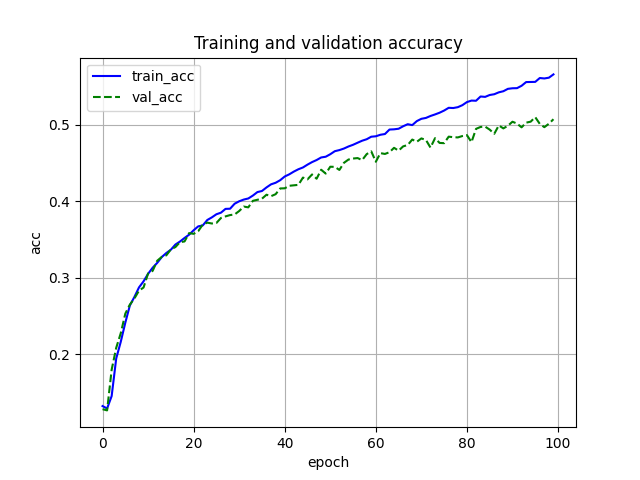
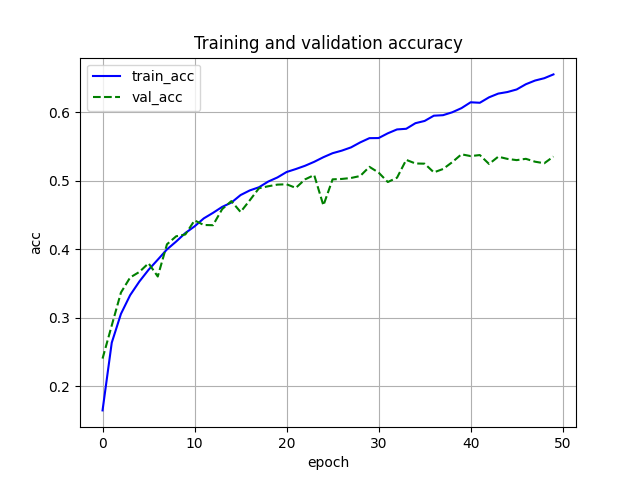
final result for my_mlp/cnn

diff --git a/mnist/mlp/mlp_mnist.py b/mnist/mlp/mlp_mnist.py
@@ -5,6 +5,7 @@ from torch import nn
 from torch.functional import F
 from torch import optim
 import matplotlib.pyplot as plt
+import time
 
 train_Data = dsets.MNIST(
     root='../data_mnist',
@@ -49,8 +50,13 @@ class MLP(nn.Module):
     '''
     def __init__(self, D_in, H, D_out):
         super(MLP, self).__init__()
-        self.fc1 = nn.Linear(D_in, H)
-        self.fc2 = nn.Linear(H, D_out)
+        self.l1 = nn.Linear(D_in, H)
+        self.l2 = nn.Linear(H,D_out)
+
+    def forward(self, x):
+        h = F.relu(self.l1(x))
+        y = self.l2(x)
+        return y
     '''
 
     def __init__(self):
@@ -59,6 +65,7 @@ class MLP(nn.Module):
         self.fc2 = nn.Linear(512, 10)
 
     def forward(self, x):
+        x = x.view(-1, 28*28*1)
         x = F.relu(self.fc1(x))
         return self.fc2(x)
 
@@ -67,23 +74,25 @@ net = MLP().to(device)
 
 #loss:CrossEntropy
 criterion = nn.CrossEntropyLoss()
-#optimizer:SGD, learning rate:0.01
-optimizer = optim.SGD(net.parameters(), lr=0.01)
+#optimizer:SGD, learning rate:0.04
+optimizer = optim.SGD(net.parameters(), lr=0.04)
 
 #training
 
-#50epochs
-num_epochs = 50
+#100epochs
+num_epochs = 100
 
 train_loss_list, train_acc_list, val_loss_list, val_acc_list = [], [], [], []
+elapsed_time = 0
 
 for epoch in range(num_epochs):
+    start = time.time()
     train_loss, train_acc, val_loss, val_acc = 0, 0, 0, 0
 
     #train
     net.train()
     for inputs, labels in train_loader:
-        inputs, labels = inputs.view(-1, 28*28*1).to(device), labels.to(device)
+        inputs, labels = inputs.to(device), labels.to(device)
         optimizer.zero_grad()  #initialize
         outputs = net(inputs)  #output
         loss = criterion(outputs, labels)  #loss
@@ -99,7 +108,7 @@ for epoch in range(num_epochs):
     net.eval()
     with torch.no_grad():  #stop calculation of grad
         for inputs, labels in valid_loader:
-            inputs, labels = inputs.view(-1, 28*28*1).to(device), labels.to(device)
+            inputs, labels = inputs.to(device), labels.to(device)
             outputs = net(inputs)  #output
             loss = criterion(outputs, labels)  #loss
             val_loss += loss.item()
@@ -108,6 +117,7 @@ for epoch in range(num_epochs):
     avg_val_loss = val_loss / len(valid_loader.dataset)
     avg_val_acc = val_acc / len(valid_loader.dataset)
 
+    elapsed_time += time.time() - start
     print ('Epoch [{}/{}], Loss: {loss:.4f}, val_loss: {val_loss:.4f}, val_acc: {val_acc:.4f}'
                    .format(epoch+1, num_epochs, loss=avg_train_loss, val_loss=avg_val_loss, val_acc=avg_val_acc))
 
@@ -117,13 +127,16 @@ for epoch in range(num_epochs):
     val_loss_list.append(avg_val_loss)
     val_acc_list.append(avg_val_acc)
 
+timeperepoch = elapsed_time / num_epochs
+print('elapsed time per epoch: {:.2f}'.format(timeperepoch))
+
 test_acc = 0
 
 #test
 net.eval()
 with torch.no_grad():
     for inputs, labels in test_loader:
-        inputs, labels = inputs.view(-1, 28*28*1).to(device), labels.to(device)
+        inputs, labels = inputs.to(device), labels.to(device)
         outputs = net(inputs)
         acc = (outputs.max(1)[1] == labels).sum()
         test_acc += acc.item()

diff --git a/cifar10/cnn/cnn_cifar10.py b/cifar10/cnn/cnn_cifar10.py
@@ -5,19 +5,20 @@ from torch import nn
 from torch.functional import F
 from torch import optim
 import matplotlib.pyplot as plt
+import time
 
 train_Data = dsets.CIFAR10(
     root='../data_cifar10',
     train=True,
     transform=transforms.ToTensor(),
-    download=True
+    download=False
 )
 
 test_data = dsets.CIFAR10(
     root='../data_cifar10',
     train=False,
     transform=transforms.ToTensor(),
-    download=True
+    download=False
 )
 
 train_data, valid_data = torch.utils.data.random_split(train_Data, [40000, 10000])
@@ -50,10 +51,11 @@ class CNN(nn.Module):
 
     def __init__(self):
         super(CNN, self).__init__()
-        self.conv1 = nn.Conv2d(3, 64, 3)   #64 filters 3*3
+        self.conv1 = nn.Conv2d(3, 64, 3)   #64 filters 5*5
         self.conv2 = nn.Conv2d(64, 64, 3)
         self.pool = nn.MaxPool2d(2)        #2*2
-        self.conv3 = nn.Conv2d(64, 128, 3) #128 filters 3*3
+        self.conv3 = nn.Conv2d(64, 128, 3)
+        #self.conv4 = nn.Conv2d(64, 64, 3)
         self.fc1 = nn.Linear(6 * 6 * 128, 1024)
         self.fc2 = nn.Linear(1024, 10)
 
@@ -62,6 +64,7 @@ class CNN(nn.Module):
         x = F.relu(self.conv2(x))
         x = self.pool(x)
         x = F.relu(self.conv3(x))
+        #x = F.relu(self.conv4(x))
         x = self.pool(x)
         x = x.view(-1, 6*6*128)
         x = F.relu(self.fc1(x))
@@ -72,8 +75,8 @@ net = CNN().to(device)
 
 #loss:CrossEntropy
 criterion = nn.CrossEntropyLoss()
-#optimizer:SGD, learning rate:0.002
-optimizer = optim.SGD(net.parameters(), lr=0.002)
+#optimizer:SGD, learning rate:0.005
+optimizer = optim.SGD(net.parameters(), lr=0.005)
 
 #training
 
@@ -81,8 +84,10 @@ optimizer = optim.SGD(net.parameters(), lr=0.002)
 num_epochs = 50
 
 train_loss_list, train_acc_list, val_loss_list, val_acc_list = [], [], [], []
+elapsed_time = 0
 
 for epoch in range(num_epochs):
+    start = time.time()
     train_loss, train_acc, val_loss, val_acc = 0, 0, 0, 0
 
     #train
@@ -113,6 +118,7 @@ for epoch in range(num_epochs):
     avg_val_loss = val_loss / len(valid_loader.dataset)
     avg_val_acc = val_acc / len(valid_loader.dataset)
 
+    elapsed_time += time.time() - start
     print ('Epoch [{}/{}], Loss: {loss:.4f}, val_loss: {val_loss:.4f}, val_acc: {val_acc:.4f}'
                    .format(epoch+1, num_epochs, loss=avg_train_loss, val_loss=avg_val_loss, val_acc=avg_val_acc))
 
@@ -121,6 +127,9 @@ for epoch in range(num_epochs):
     train_acc_list.append(avg_train_acc)
     val_loss_list.append(avg_val_loss)
     val_acc_list.append(avg_val_acc)
+
+timeperepoch = elapsed_time / num_epochs
+print('elapsed time per epoch: {:.2f}'.format(timeperepoch))
 
 test_acc = 0
 

diff --git a/mnist/cnn/cnn_mnist.py b/mnist/cnn/cnn_mnist.py
@@ -5,6 +5,7 @@ from torch import nn
 from torch.functional import F
 from torch import optim
 import matplotlib.pyplot as plt
+import time
 
 train_Data = dsets.MNIST(
     root='../data_mnist',
@@ -47,7 +48,6 @@ test_loader = torch.utils.data.DataLoader(
 
 #CNN(Conv1, Affine1)
 class CNN(nn.Module):
-
     def __init__(self):
         super(CNN, self).__init__()
         self.conv1 = nn.Conv2d(1, 32, 5)  #32 filters 5*5
@@ -62,13 +62,14 @@ class CNN(nn.Module):
         x = F.relu(self.fc1(x))
         return self.fc2(x)
 
+
 device = 'cuda' if torch.cuda.is_available() else 'cpu'
 net = CNN().to(device)
 
 #loss:CrossEntropy
 criterion = nn.CrossEntropyLoss()
-#optimizer:SGD, learning rate:0.005
-optimizer = optim.SGD(net.parameters(), lr=0.005)
+#optimizer:SGD, learning rate:0.01
+optimizer = optim.SGD(net.parameters(), lr=0.01)
 
 #training
 
@@ -76,8 +77,10 @@ optimizer = optim.SGD(net.parameters(), lr=0.005)
 num_epochs = 50
 
 train_loss_list, train_acc_list, val_loss_list, val_acc_list = [], [], [], []
+elapsed_time = 0
 
 for epoch in range(num_epochs):
+    start = time.time()
     train_loss, train_acc, val_loss, val_acc = 0, 0, 0, 0
 
     #train
@@ -108,6 +111,7 @@ for epoch in range(num_epochs):
     avg_val_loss = val_loss / len(valid_loader.dataset)
     avg_val_acc = val_acc / len(valid_loader.dataset)
 
+    elapsed_time += time.time() - start
     print ('Epoch [{}/{}], Loss: {loss:.4f}, val_loss: {val_loss:.4f}, val_acc: {val_acc:.4f}'
                    .format(epoch+1, num_epochs, loss=avg_train_loss, val_loss=avg_val_loss, val_acc=avg_val_acc))
 
@@ -116,6 +120,9 @@ for epoch in range(num_epochs):
     train_acc_list.append(avg_train_acc)
     val_loss_list.append(avg_val_loss)
     val_acc_list.append(avg_val_acc)
+
+timeperepoch = elapsed_time / num_epochs
+print('elapsed time per epoch: {:.2f}'.format(timeperepoch))
 
 test_acc = 0
 

diff --git a/cifar10/mlp/mlp_cifar10.py b/cifar10/mlp/mlp_cifar10.py
@@ -5,19 +5,20 @@ from torch import nn
 from torch.functional import F
 from torch import optim
 import matplotlib.pyplot as plt
+import time
 
 train_Data = dsets.CIFAR10(
     root='../data_cifar10',
     train=True,
     transform=transforms.ToTensor(),
-    download=True
+    download=False
 )
 
 test_data = dsets.CIFAR10(
     root='../data_cifar10',
     train=False,
     transform=transforms.ToTensor(),
-    download=True
+    download=False
 )
 
 train_data, valid_data = torch.utils.data.random_split(train_Data, [40000, 10000])
@@ -64,17 +65,19 @@ net = MLP().to(device)
 
 #loss:CrossEntropy
 criterion = nn.CrossEntropyLoss()
-#optimizer:SGD, learning rate:0.002
-optimizer = optim.SGD(net.parameters(), lr=0.002)
+#optimizer:SGD, learning rate:0.01
+optimizer = optim.SGD(net.parameters(), lr=0.01)
 
 #training
 
-#100epochs
-num_epochs = 100
+#50epochs
+num_epochs = 50
 
 train_loss_list, train_acc_list, val_loss_list, val_acc_list = [], [], [], []
+elapsed_time = 0
 
 for epoch in range(num_epochs):
+    start = time.time()
     train_loss, train_acc, val_loss, val_acc = 0, 0, 0, 0
 
     #train
@@ -105,6 +108,7 @@ for epoch in range(num_epochs):
     avg_val_loss = val_loss / len(valid_loader.dataset)
     avg_val_acc = val_acc / len(valid_loader.dataset)
 
+    elapsed_time += time.time() - start
     print ('Epoch [{}/{}], Loss: {loss:.4f}, val_loss: {val_loss:.4f}, val_acc: {val_acc:.4f}'
                    .format(epoch+1, num_epochs, loss=avg_train_loss, val_loss=avg_val_loss, val_acc=avg_val_acc))
 
@@ -113,6 +117,9 @@ for epoch in range(num_epochs):
     train_acc_list.append(avg_train_acc)
     val_loss_list.append(avg_val_loss)
     val_acc_list.append(avg_val_acc)
+
+timeperepoch = elapsed_time / num_epochs
+print('elapsed time per epoch: {:.2f}'.format(timeperepoch))
 
 test_acc = 0
 
